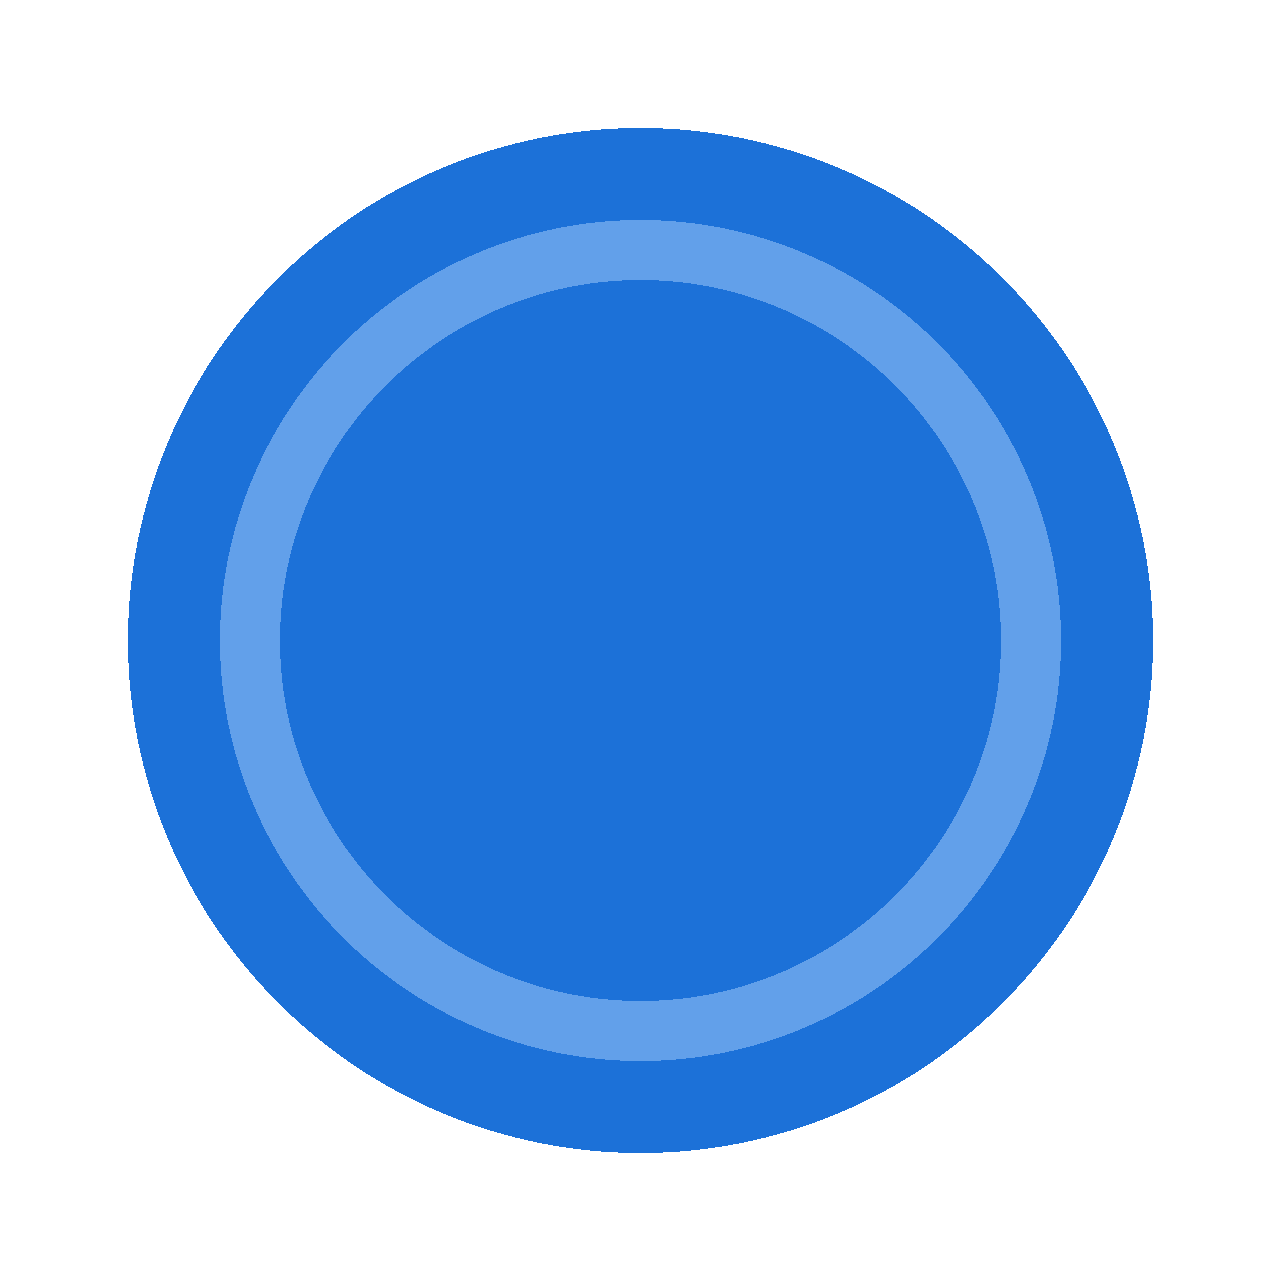
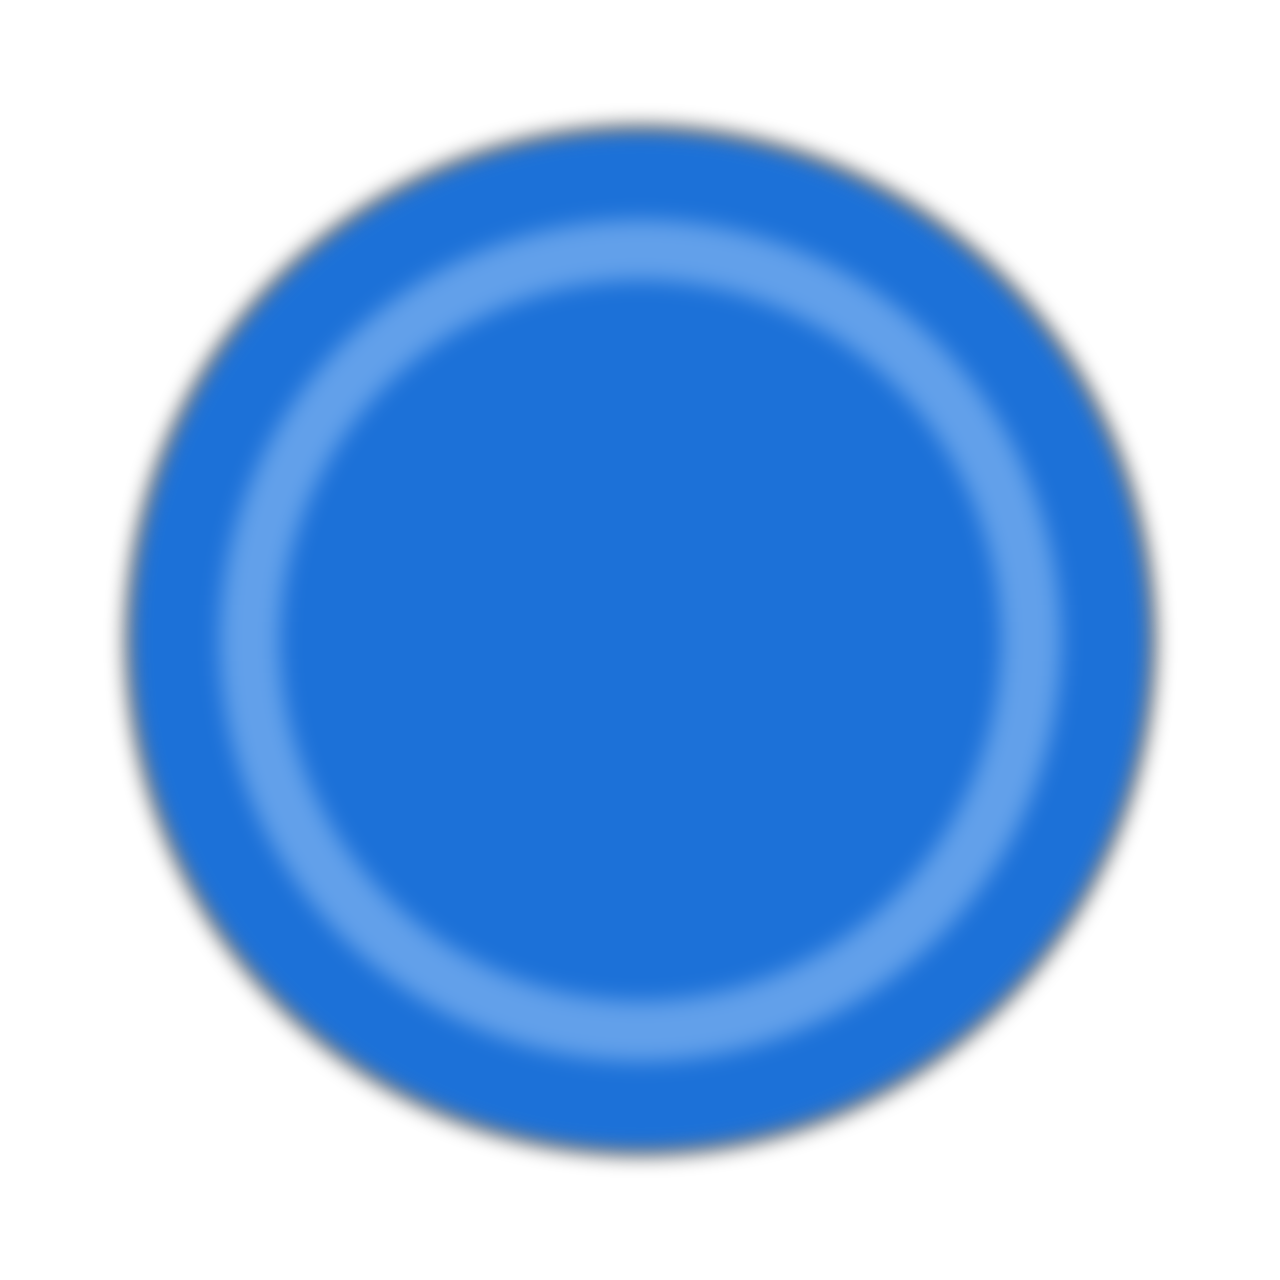
Improve ball image generation

diff --git a/art/images/generator/ball.py b/art/images/generator/ball.py
@@ -1,4 +1,4 @@
-from PIL import Image, ImageDraw
+from PIL import Image, ImageDraw, ImageFilter
 
 
 DIM_X = 1280
@@ -26,7 +26,9 @@ def main() -> None:
         draw_circle(draw, 220, b)
         draw_circle(draw, 280, a)
 
-        image.save("ball{:02}.png".format(i + 1))
+        image_final = image.filter(ImageFilter.GaussianBlur(10))
+
+        image_final.save("ball{:02}.png".format(i + 1))
 
 
 if __name__ == "__main__":

diff --git a/art/maps/generator/mask.py b/art/maps/generator/mask.py
@@ -62,6 +62,7 @@ def main() -> None:
         color = random.choice(FILLS[1:])
         draw_circle(draw, rad, (x, y), color)
 
+
     image.save(f"{file_name}.png")
 
 
